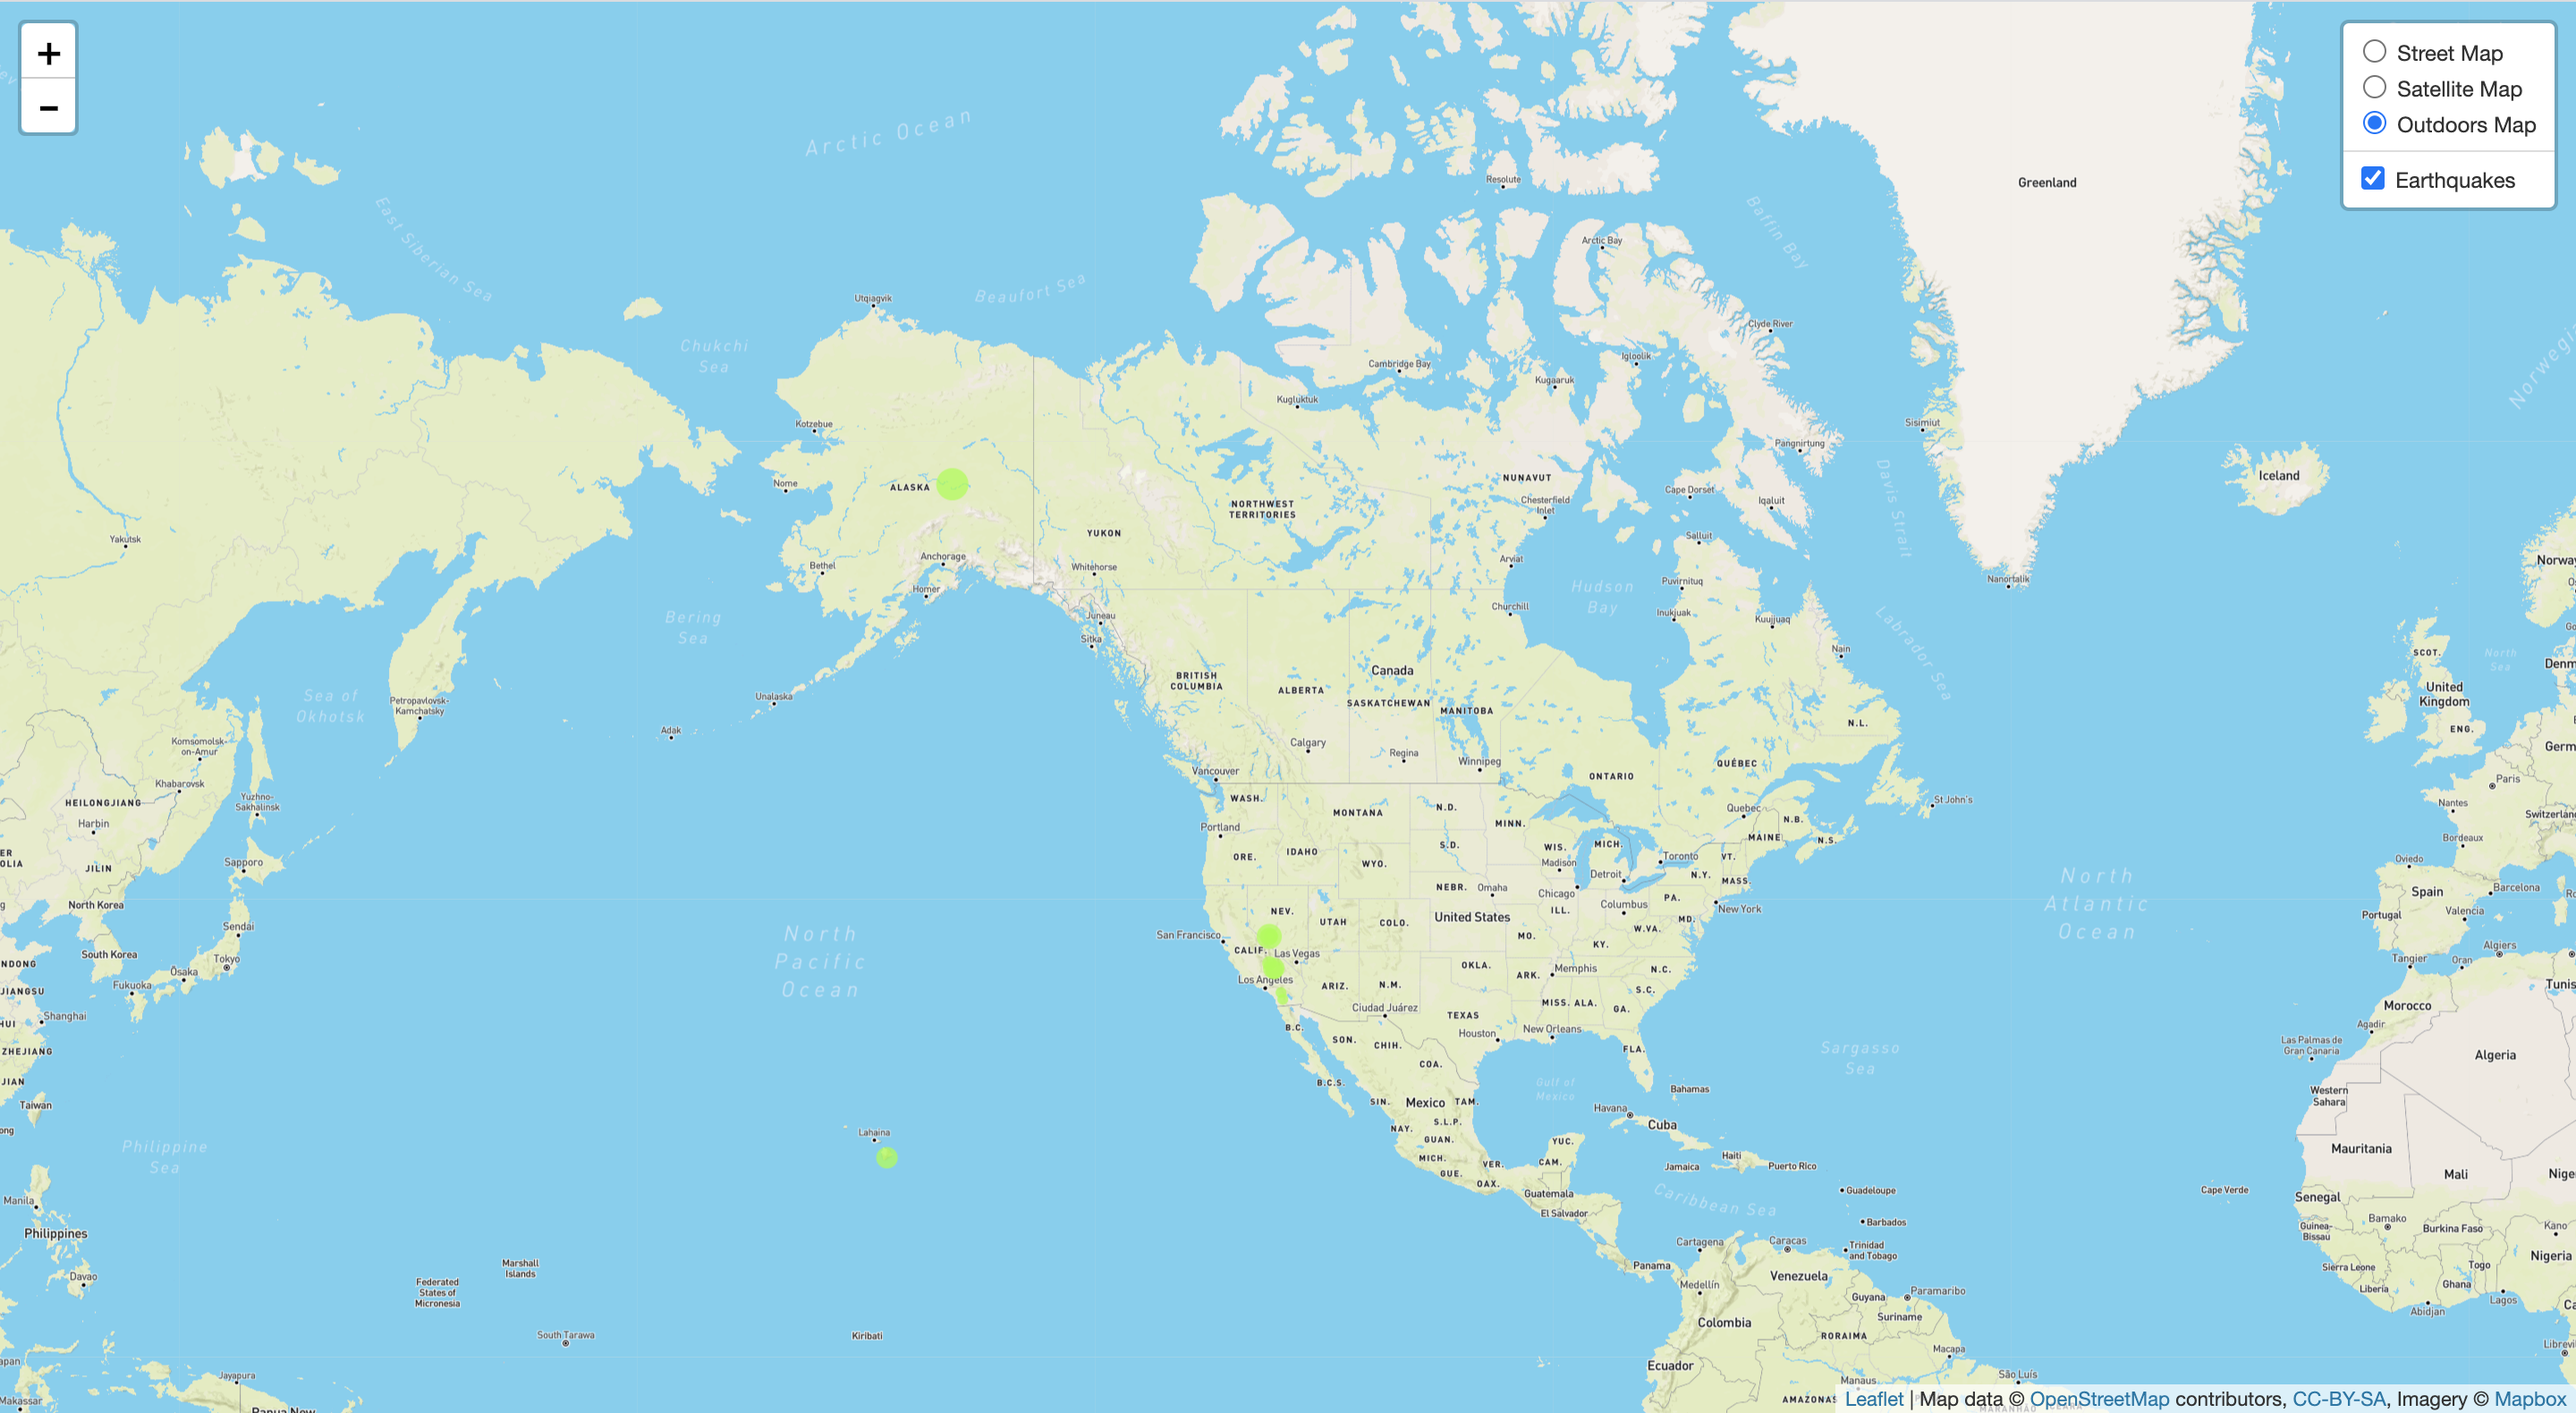
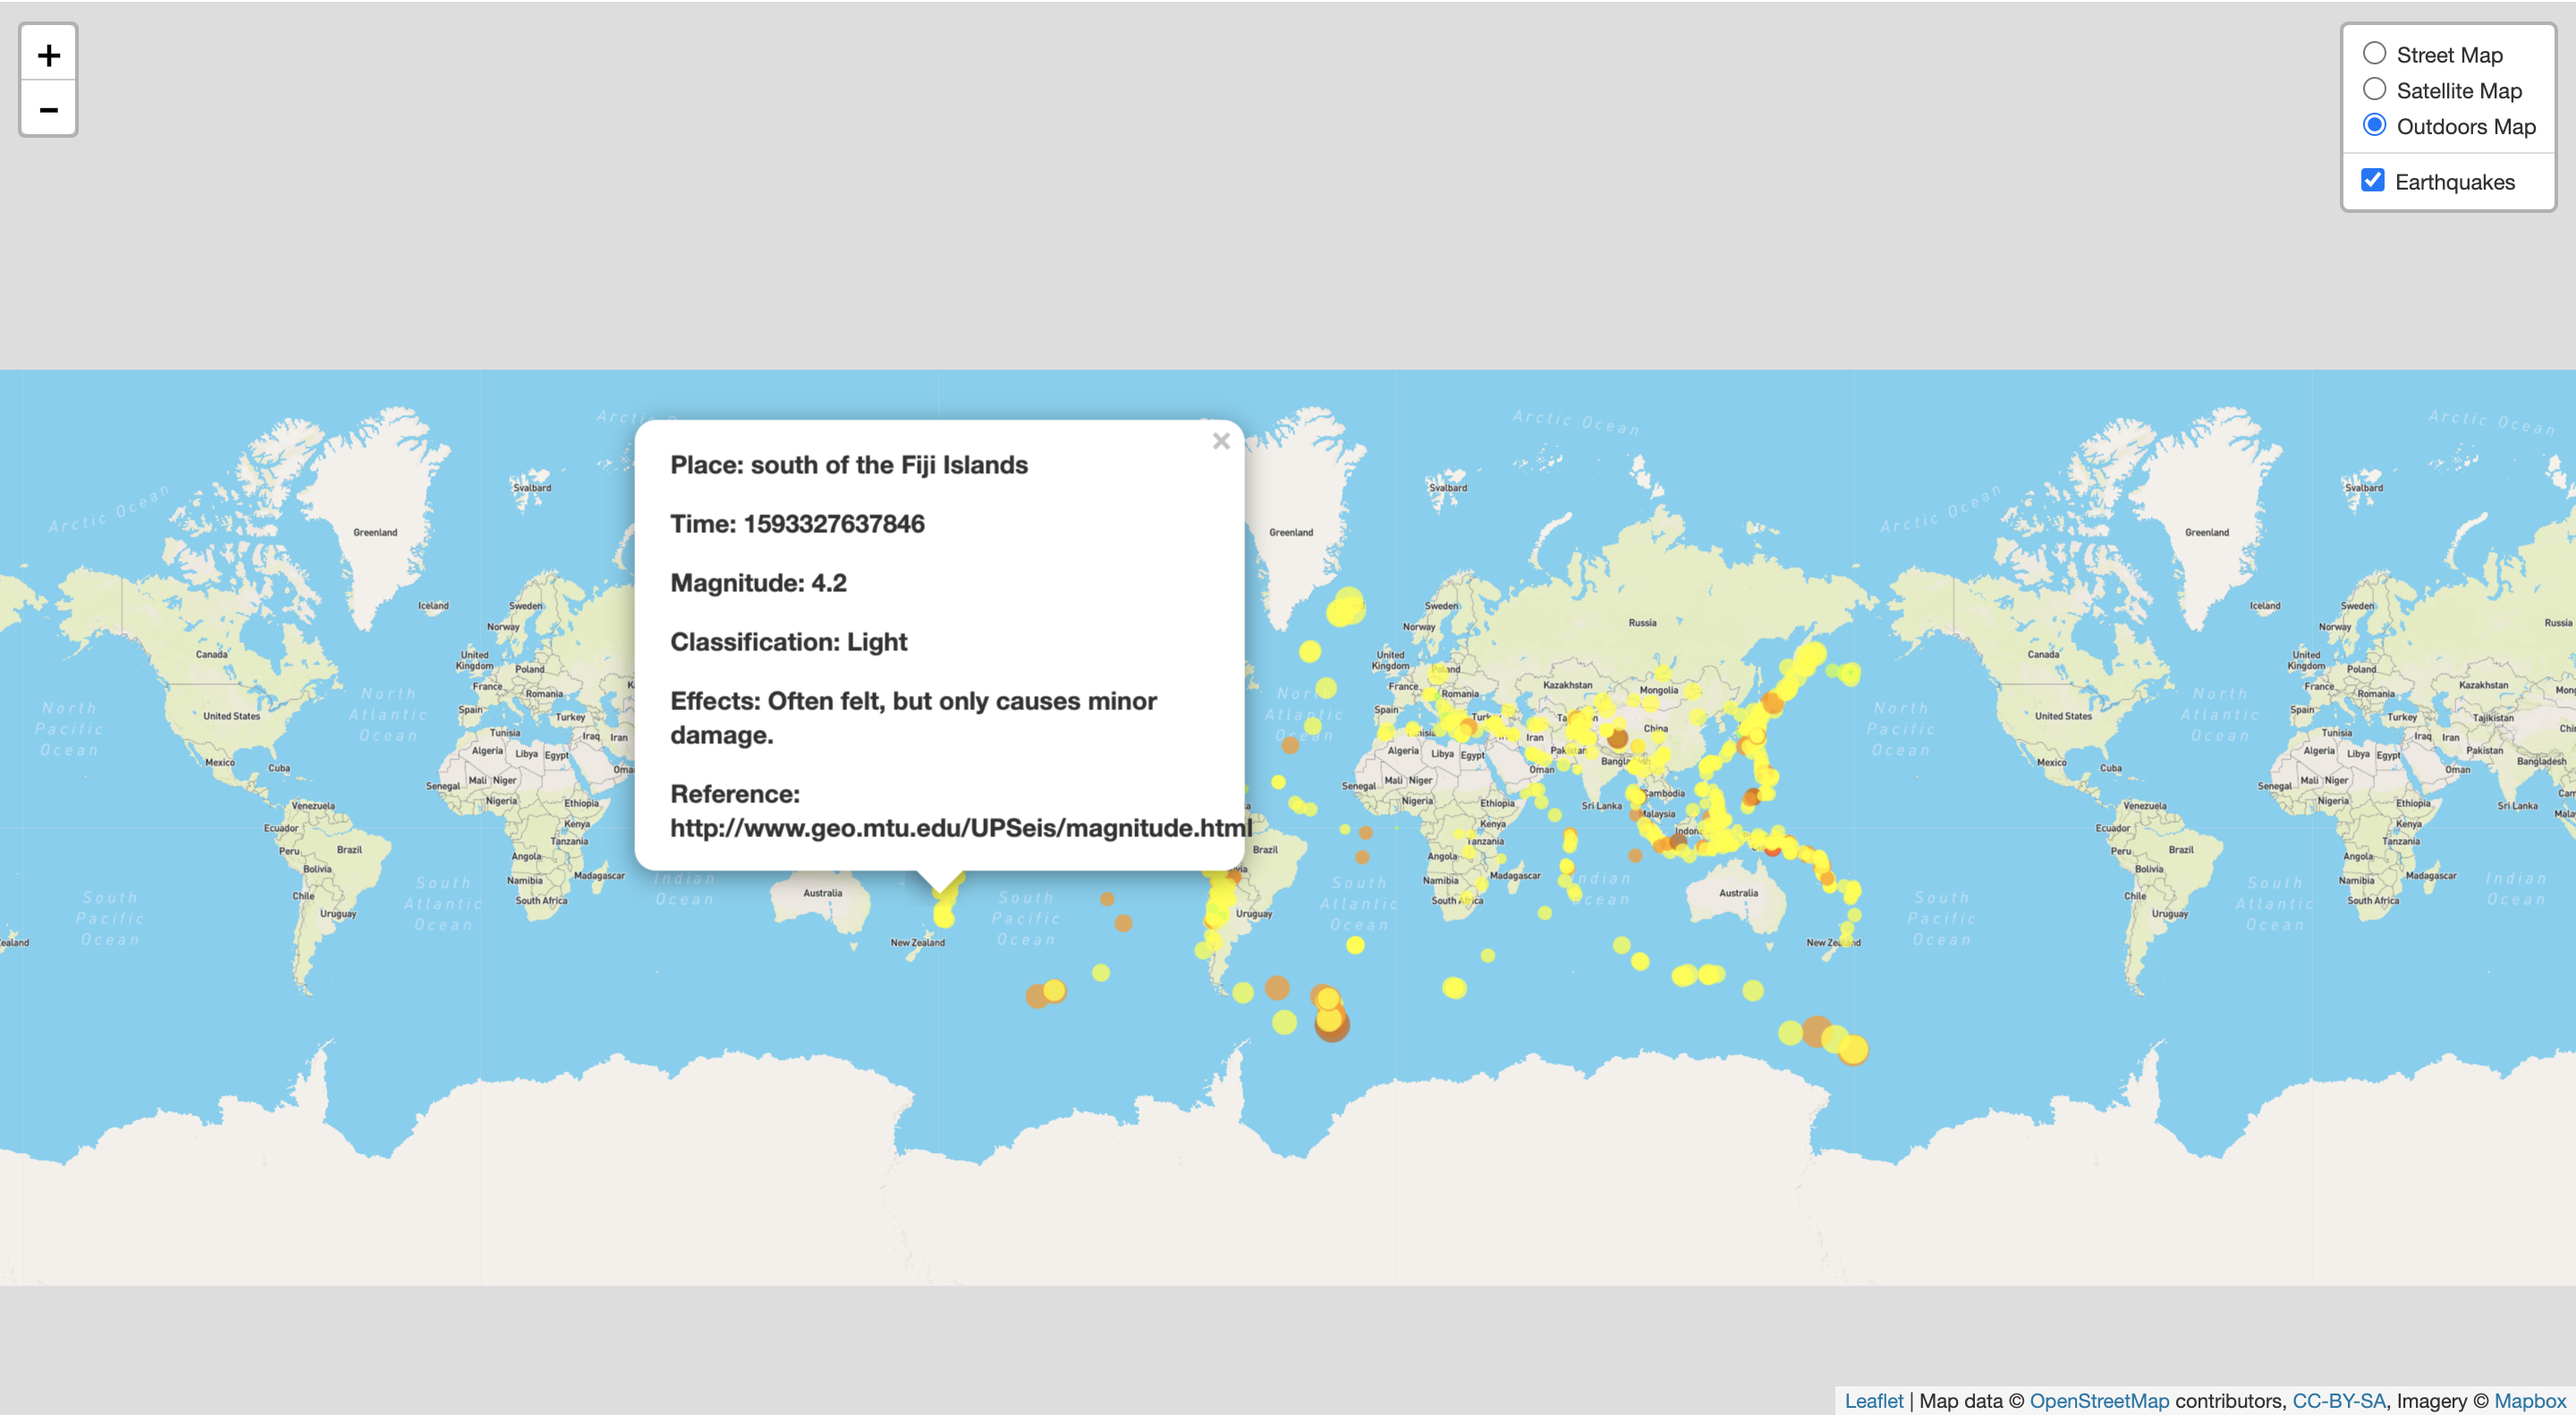
code update and pictures updates

diff --git a/Leaflet-Step-1/static/js/logic.js b/Leaflet-Step-1/static/js/logic.js
@@ -1,4 +1,4 @@
-var queryUrl = "https://earthquake.usgs.gov/earthquakes/feed/v1.0/summary/all_hour.geojson";
+var queryUrl = "https://earthquake.usgs.gov/earthquakes/feed/v1.0/summary/all_month.geojson";
 
 function Colourscale (magnitude){
     if (magnitude < 3){

diff --git a/README.md b/README.md
@@ -1,3 +1,4 @@
+All Month Earthquake Data:
 Leaflet_step-1 website: https://stephen823.github.io/leaflet-challenge/Leaflet-Step-1/
 Leaflet_step-2 website: https://stephen823.github.io/leaflet-challenge/Leaflet-Step-2/
 
